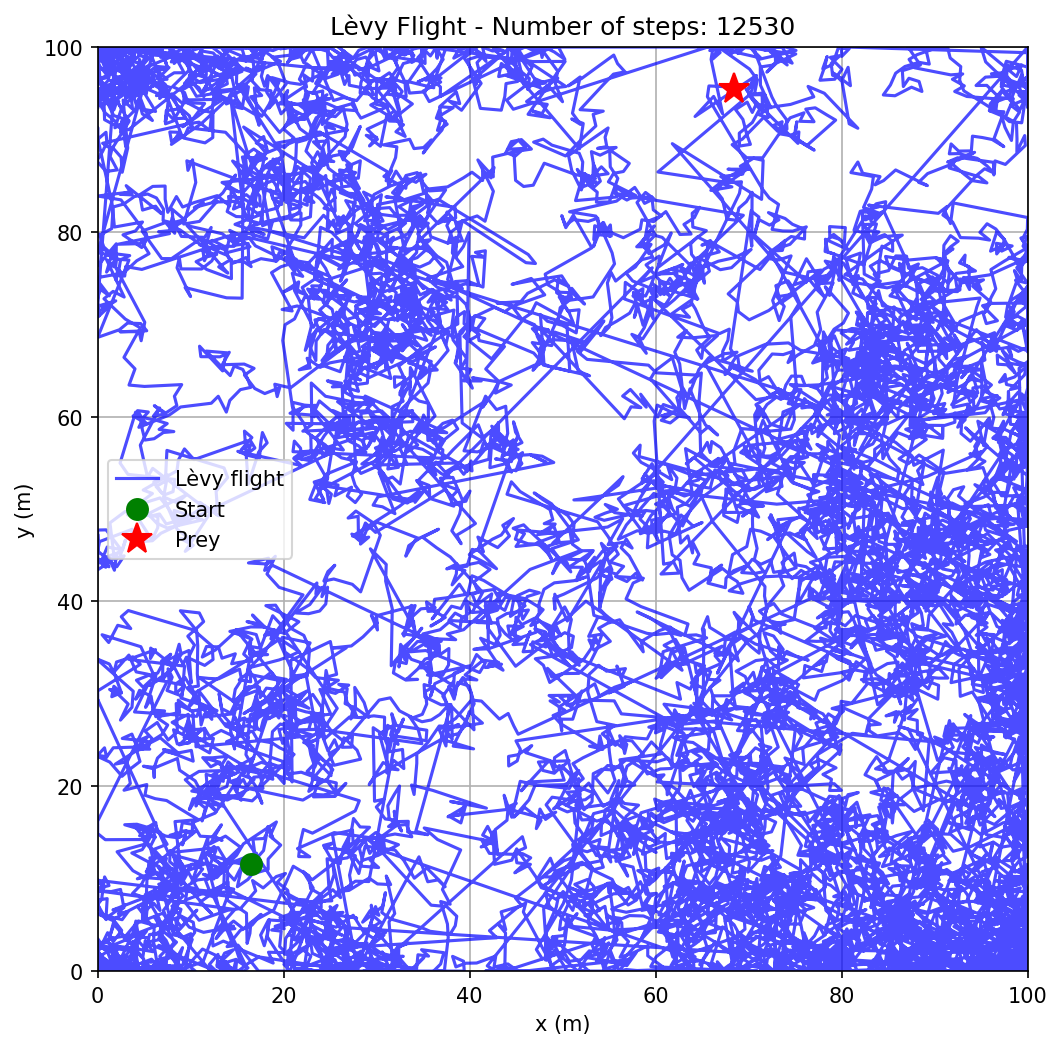
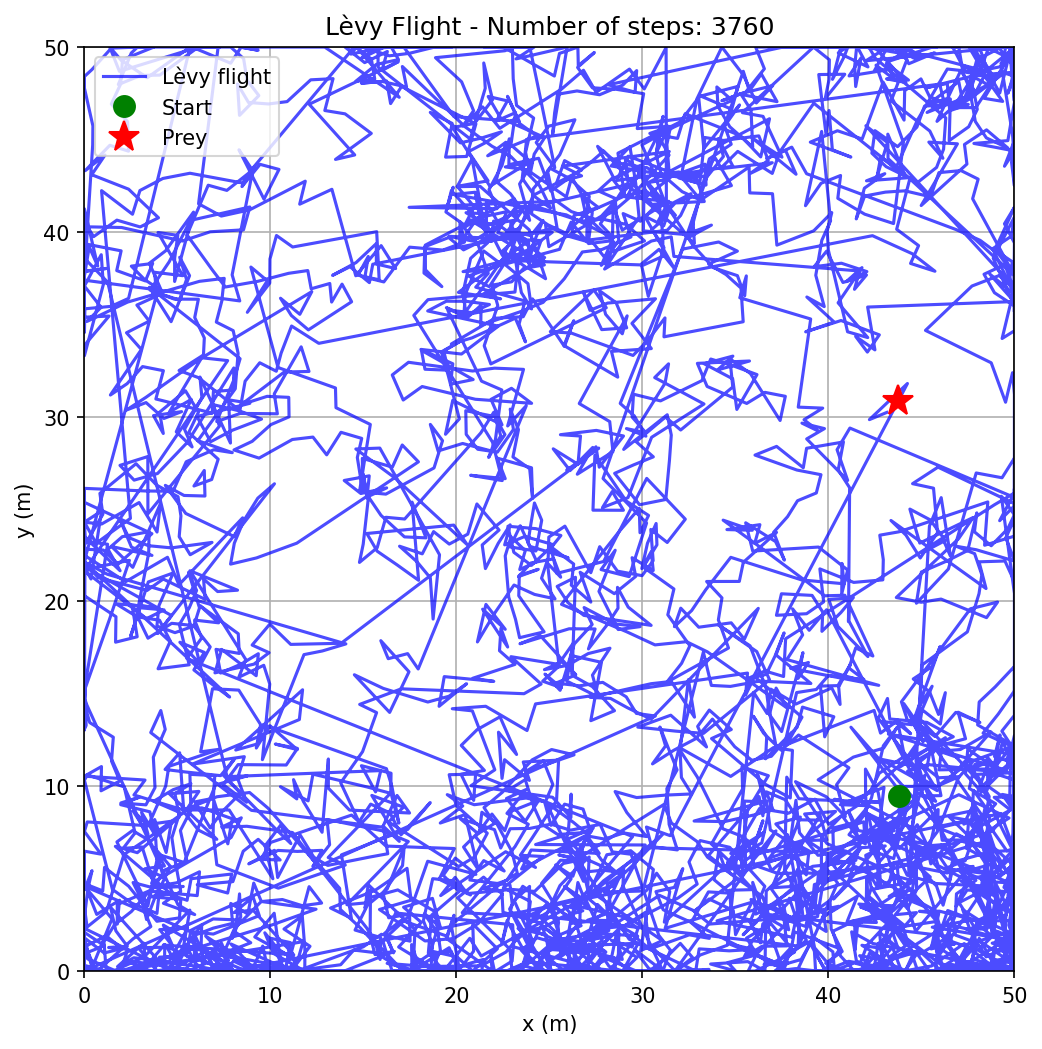
L50general

diff --git a/Levy/Levy.py b/Levy/Levy.py
@@ -1,10 +1,10 @@
 import numpy as np
 import matplotlib.pyplot as plt
 
-L=100
-N_pasos=2000
-alpha_0=1.6
-alpha_f=3.0
+L=50
+N_pasos=10000
+alpha_0=1.1
+alpha_f=3.1
 delta_alpha=0.1
 l_min=1.0 #necesario para normalizar la power law
 suma=0
@@ -13,7 +13,7 @@ promedios = []
 alphas = []
 
 
-np.random.seed(232)
+np.random.seed(832)
 
 #----------- FUNCION LEVY (POWER LAW) -----------
 def power_law_step(alpha, l_min):
